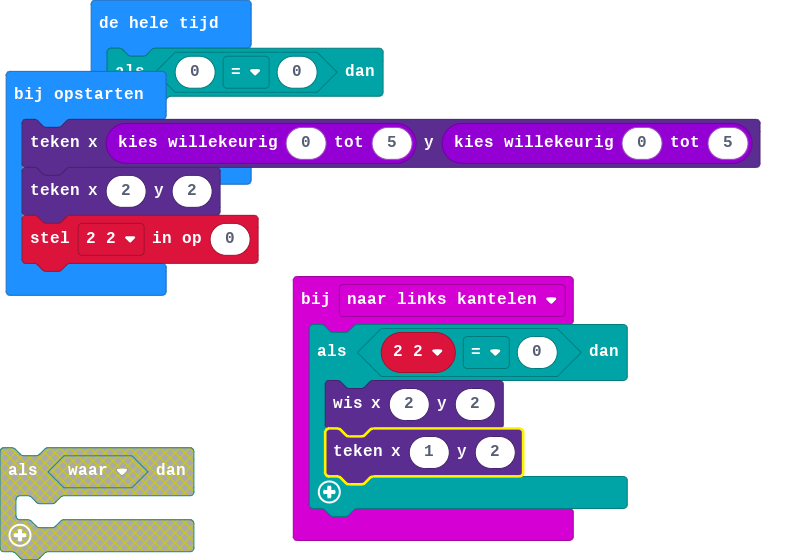
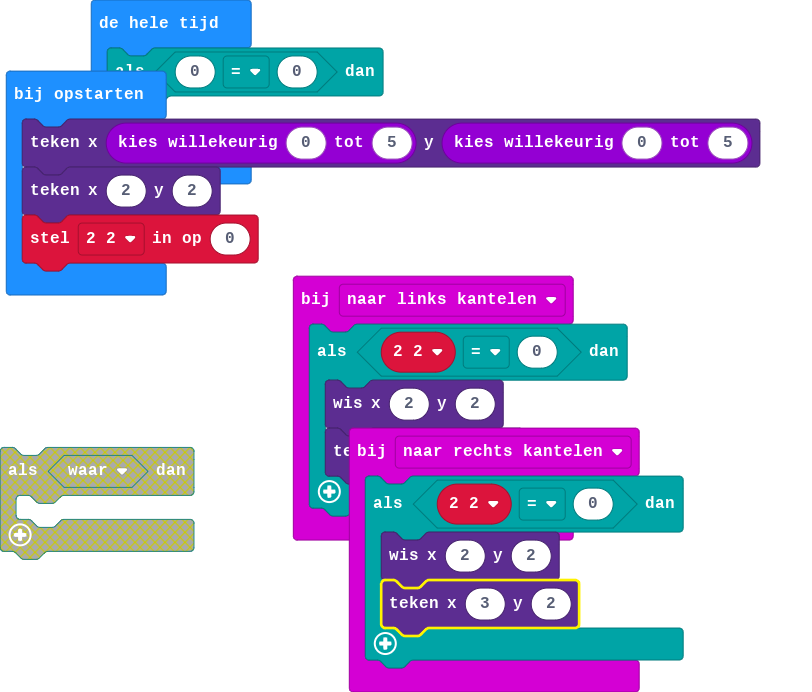
main.blocks, main.ts bijwerken

diff --git a/main.ts b/main.ts
@@ -1,3 +1,9 @@
+input.onGesture(Gesture.TiltRight, function () {
+    if (_2_2 == 0) {
+        led.unplot(2, 2)
+        led.plot(3, 2)
+    }
+})
 input.onGesture(Gesture.TiltLeft, function () {
     if (_2_2 == 0) {
         led.unplot(2, 2)
